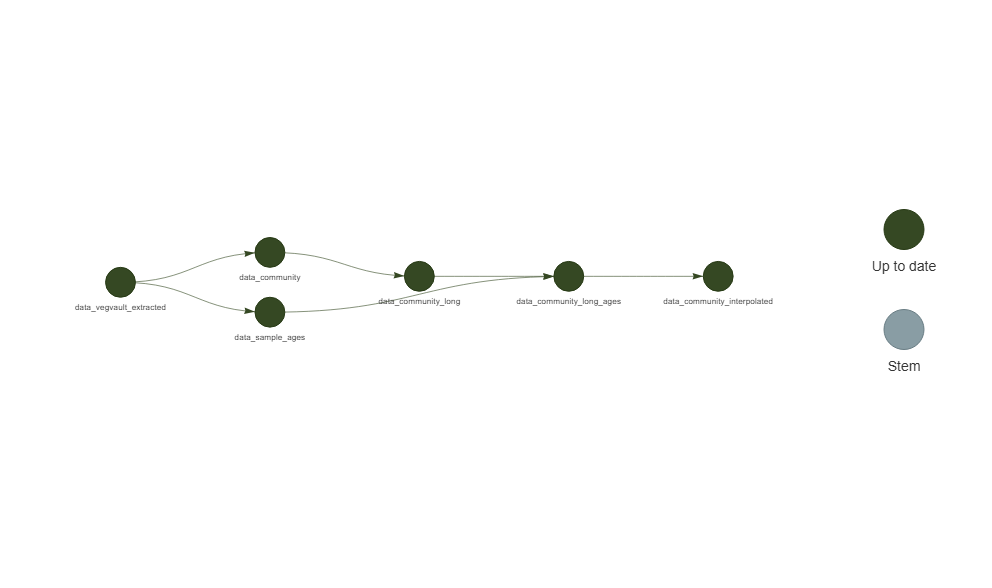
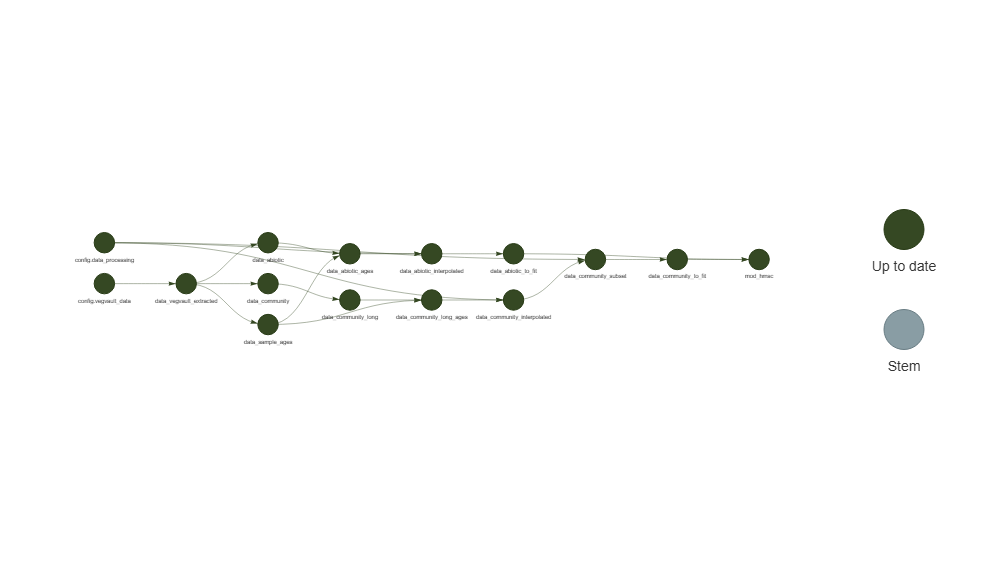
Update visualisation of the progress

Changed region(s): [[0.0938, 0.398, 0.7812, 0.5816]]

diff --git a/Outputs/Figures/project_status.html b/Outputs/Figures/project_status.html
@@ -5330,9 +5330,9 @@ HTMLWidgets.widget({
 </head>
 <body style="background-color: white;">
 <div id="htmlwidget_container">
-  <div class="visNetwork html-widget html-fill-item" id="htmlwidget-5990d76759a78f1f7d6b" style="width:960px;height:500px;"></div>
+  <div class="visNetwork html-widget html-fill-item" id="htmlwidget-0acc5435a23edf15ea40" style="width:960px;height:500px;"></div>
 </div>
-<script type="application/json" data-for="htmlwidget-5990d76759a78f1f7d6b">{"x":{"nodes":{"name":["data_community","data_community_interpolated","data_community_long","data_community_long_ages","data_sample_ages","data_vegvault_extracted"],"type":["stem","stem","stem","stem","stem","stem"],"description":[null,null,null,null,null,null],"status":["uptodate","uptodate","uptodate","uptodate","uptodate","uptodate"],"seconds":[0.68,22.95,1.39,0.25,0.11,127.82],"bytes":[1282875,1319837,1628601,1800356,248654,2521477],"branches":[null,null,null,null,null,null],"label":["data_community","data_community_interpolated","data_community_long","data_community_long_ages","data_sample_ages","data_vegvault_extracted"],"color":["#354823","#354823","#354823","#354823","#354823","#354823"],"id":["data_community","data_community_interpolated","data_community_long","data_community_long_ages","data_sample_ages","data_vegvault_extracted"],"level":[2,5,3,4,2,1],"shape":["dot","dot","dot","dot","dot","dot"]},"edges":{"from":["data_vegvault_extracted","data_community_long_ages","data_community","data_community_long","data_sample_ages","data_vegvault_extracted"],"to":["data_community","data_community_interpolated","data_community_long","data_community_long_ages","data_community_long_ages","data_sample_ages"],"color":["#354823","#354823","#354823","#354823","#354823","#354823"],"arrows":["to","to","to","to","to","to"]},"nodesToDataframe":true,"edgesToDataframe":true,"options":{"width":"100%","height":"100%","nodes":{"shape":"dot","physics":false},"manipulation":{"enabled":false},"edges":{"smooth":{"type":"cubicBezier","forceDirection":"horizontal"}},"physics":{"stabilization":false},"interaction":{"zoomSpeed":1},"layout":{"hierarchical":{"enabled":true,"levelSeparation":250,"direction":"LR"}}},"groups":null,"width":null,"height":null,"idselection":{"enabled":false,"style":"width: 150px; height: 26px","useLabels":true,"main":"Select by id"},"byselection":{"enabled":false,"style":"width: 150px; height: 26px","multiple":false,"hideColor":"rgba(200,200,200,0.5)","highlight":false},"main":{"text":"","style":"font-family:Georgia, Times New Roman, Times, serif;font-weight:bold;font-size:20px;text-align:center;"},"submain":null,"footer":null,"background":"rgba(0, 0, 0, 0)","highlight":{"enabled":true,"hoverNearest":false,"degree":{"from":1,"to":1},"algorithm":"hierarchical","hideColor":"rgba(200,200,200,0.5)","labelOnly":true},"collapse":{"enabled":true,"fit":false,"resetHighlight":true,"clusterOptions":null,"keepCoord":true,"labelSuffix":"(cluster)"},"legend":{"width":0.2,"useGroups":false,"position":"right","ncol":1,"stepX":100,"stepY":100,"zoom":true,"nodes":{"label":["Up to date","Stem"],"color":["#354823","#899DA4"],"shape":["dot","dot"]},"nodesToDataframe":true},"tooltipStay":300,"tooltipStyle":"position: fixed;visibility:hidden;padding: 5px;white-space: nowrap;font-family: verdana;font-size:14px;font-color:#000000;background-color: #f5f4ed;-moz-border-radius: 3px;-webkit-border-radius: 3px;border-radius: 3px;border: 1px solid #808074;box-shadow: 3px 3px 10px rgba(0, 0, 0, 0.2);"},"evals":[],"jsHooks":[]}</script>
-<script type="application/htmlwidget-sizing" data-for="htmlwidget-5990d76759a78f1f7d6b">{"viewer":{"width":450,"height":350,"padding":15,"fill":true},"browser":{"width":960,"height":500,"padding":40,"fill":false}}</script>
+<script type="application/json" data-for="htmlwidget-0acc5435a23edf15ea40">{"x":{"nodes":{"name":["config.data_processing","config.vegvault_data","data_abiotic","data_abiotic_ages","data_abiotic_interpolated","data_abiotic_to_fit","data_community","data_community_interpolated","data_community_long","data_community_long_ages","data_community_subset","data_community_to_fit","data_sample_ages","data_vegvault_extracted","mod_hmsc"],"type":["stem","stem","stem","stem","stem","stem","stem","stem","stem","stem","stem","stem","stem","stem","stem"],"description":["Configuration for data processing","Configuration for VegVault data extraction","Extract abiotic data","Add sample ages to abiotic data","Interpolate abiotic data to specific time step","Prepare abiotic data for fitting","Extract community data","Interpolate community data to specific time step","Get community data into long-format","Add sample ages to community data","Select number of taxa to include","Prepare community data for fitting","Get sample ages","Extracted data from VegVault","Fit HMSC model"],"status":["uptodate","uptodate","uptodate","uptodate","uptodate","uptodate","uptodate","uptodate","uptodate","uptodate","uptodate","uptodate","uptodate","uptodate","uptodate"],"seconds":[0.01,0.01,0,0,0.04,0.02,0,0.63,0.02,0,0.02,0.02,0,11.48,183.71],"bytes":[140,233,1597,1806,644,1004,12845,6217,13738,15310,2515,3004,2569,20741,62434677],"branches":[null,null,null,null,null,null,null,null,null,null,null,null,null,null,null],"label":["config.data_processing","config.vegvault_data","data_abiotic","data_abiotic_ages","data_abiotic_interpolated","data_abiotic_to_fit","data_community","data_community_interpolated","data_community_long","data_community_long_ages","data_community_subset","data_community_to_fit","data_sample_ages","data_vegvault_extracted","mod_hmsc"],"color":["#354823","#354823","#354823","#354823","#354823","#354823","#354823","#354823","#354823","#354823","#354823","#354823","#354823","#354823","#354823"],"id":["config.data_processing","config.vegvault_data","data_abiotic","data_abiotic_ages","data_abiotic_interpolated","data_abiotic_to_fit","data_community","data_community_interpolated","data_community_long","data_community_long_ages","data_community_subset","data_community_to_fit","data_sample_ages","data_vegvault_extracted","mod_hmsc"],"level":[1,1,3,4,5,6,3,6,4,5,7,8,3,2,9],"shape":["dot","dot","dot","dot","dot","dot","dot","dot","dot","dot","dot","dot","dot","dot","dot"]},"edges":{"from":["data_vegvault_extracted","data_abiotic","data_sample_ages","config.data_processing","data_abiotic_ages","data_abiotic_interpolated","data_vegvault_extracted","data_community_long_ages","config.data_processing","data_community","data_community_long","data_sample_ages","config.data_processing","data_community_interpolated","data_community_subset","data_vegvault_extracted","config.vegvault_data","data_community_to_fit","data_abiotic_to_fit"],"to":["data_abiotic","data_abiotic_ages","data_abiotic_ages","data_abiotic_interpolated","data_abiotic_interpolated","data_abiotic_to_fit","data_community","data_community_interpolated","data_community_interpolated","data_community_long","data_community_long_ages","data_community_long_ages","data_community_subset","data_community_subset","data_community_to_fit","data_sample_ages","data_vegvault_extracted","mod_hmsc","mod_hmsc"],"color":["#354823","#354823","#354823","#354823","#354823","#354823","#354823","#354823","#354823","#354823","#354823","#354823","#354823","#354823","#354823","#354823","#354823","#354823","#354823"],"arrows":["to","to","to","to","to","to","to","to","to","to","to","to","to","to","to","to","to","to","to"]},"nodesToDataframe":true,"edgesToDataframe":true,"options":{"width":"100%","height":"100%","nodes":{"shape":"dot","physics":false},"manipulation":{"enabled":false},"edges":{"smooth":{"type":"cubicBezier","forceDirection":"horizontal"}},"physics":{"stabilization":false},"interaction":{"zoomSpeed":1},"layout":{"hierarchical":{"enabled":true,"levelSeparation":200,"direction":"LR"}}},"groups":null,"width":null,"height":null,"idselection":{"enabled":false,"style":"width: 150px; height: 26px","useLabels":true,"main":"Select by id"},"byselection":{"enabled":false,"style":"width: 150px; height: 26px","multiple":false,"hideColor":"rgba(200,200,200,0.5)","highlight":false},"main":{"text":"","style":"font-family:Georgia, Times New Roman, Times, serif;font-weight:bold;font-size:20px;text-align:center;"},"submain":null,"footer":null,"background":"rgba(0, 0, 0, 0)","highlight":{"enabled":true,"hoverNearest":false,"degree":{"from":1,"to":1},"algorithm":"hierarchical","hideColor":"rgba(200,200,200,0.5)","labelOnly":true},"collapse":{"enabled":true,"fit":false,"resetHighlight":true,"clusterOptions":null,"keepCoord":true,"labelSuffix":"(cluster)"},"legend":{"width":0.2,"useGroups":false,"position":"right","ncol":1,"stepX":100,"stepY":100,"zoom":true,"nodes":{"label":["Up to date","Stem"],"color":["#354823","#899DA4"],"shape":["dot","dot"]},"nodesToDataframe":true},"tooltipStay":300,"tooltipStyle":"position: fixed;visibility:hidden;padding: 5px;white-space: nowrap;font-family: verdana;font-size:14px;font-color:#000000;background-color: #f5f4ed;-moz-border-radius: 3px;-webkit-border-radius: 3px;border-radius: 3px;border: 1px solid #808074;box-shadow: 3px 3px 10px rgba(0, 0, 0, 0.2);"},"evals":[],"jsHooks":[]}</script>
+<script type="application/htmlwidget-sizing" data-for="htmlwidget-0acc5435a23edf15ea40">{"viewer":{"width":450,"height":350,"padding":15,"fill":true},"browser":{"width":960,"height":500,"padding":40,"fill":false}}</script>
 </body>
 </html>
